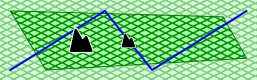
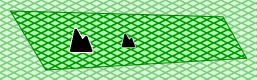
docs/render_examples: small-scale patterns

diff --git a/docs/mapdb_ru.htm b/docs/mapdb_ru.htm
@@ -577,18 +577,35 @@ area:1 img skala.png 0.3
             margin:3px; padding: 3px; color: black;
             font-family:monospace; white-space:pre">
 <img src=render_examples/render9.png align=right>
-# Example for `patt` and `img` features
+# Example for `img_filter` feature
 
-
-# fill background with a pattern and then with
-# semi-transparent white color:
+# fill background with a pattern with `nearest` (=`fast`) filter
 map    patt vyr_o.png 0.3
 +      img_filter nearest
 
-# draw polygon with contour and pattern filling
+# fill polygon with a pattern with default (=`good`) filter
 area:1 stroke 0xFF008000 1
 +      patt vyr_o.png 0.3
 
+
+</div><br>
+
+<div style="border-style:solid; border-width:0.5;
+            margin:3px; padding: 3px; color: black;
+            font-family:monospace; white-space:pre">
+<img src=render_examples/renderA.png align=right>
+# картинки, нарисованные в слишком мелком масштабе
+
+map    patt vyr_o.png 0.08
+
+# Заливка картинкой в мелком масштабе рисуется однордным
+# усредненным цветом
+area:1 stroke 0xFF008000 1
++      patt vyr_o.png 0.0001
+
+# Картинка в мелком масштабе рисуется как отдельная точка с
+# усредненным цветом
+point:1 img skala.png 0.0001
 
 </div><br>
 
